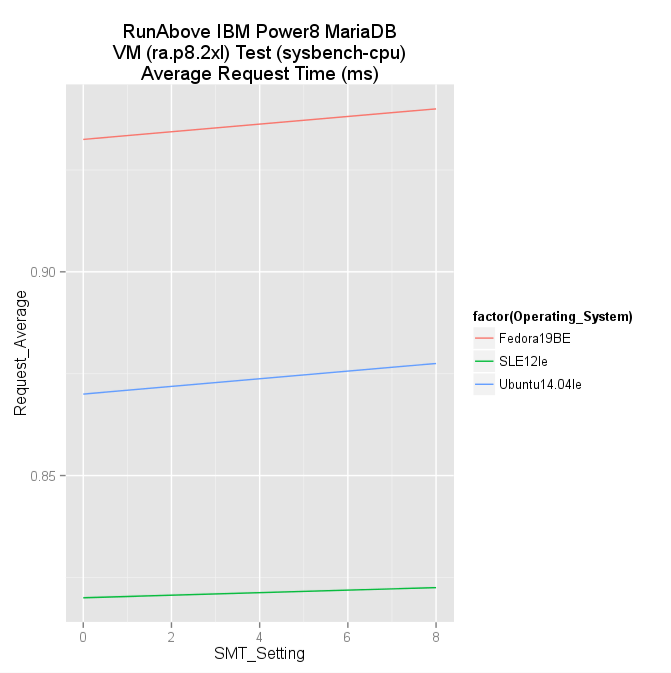
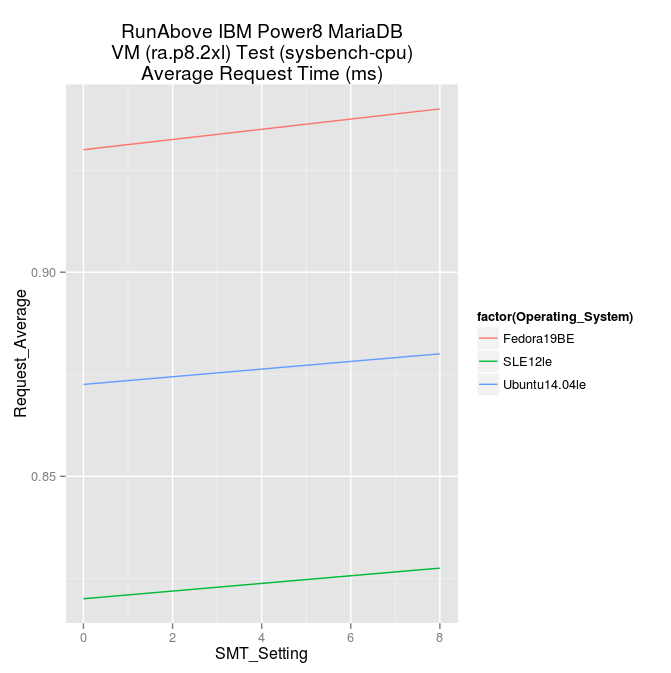
augment with 2xl vm flavor data, results, and report

diff --git a/README.md b/README.md
@@ -10,6 +10,7 @@ This project documents how a comparitive benchmarking study was done to assess M
 | Cloud Service Provider | [OVH Runabove](https://www.runabove.com/index.xml) |
 | System Architecture | [IBM Power8](http://www-03.ibm.com/systems/power/software/linux/) with PowerKVM 2.1.0 |
 | VM Flavor(s) | ra.p8.s ( 8VCPU, 4GB RAM, 10GB Disk ) |
+|              | ra.p8.2xl ( 176VCPU, 48GB RAM, 480GB Disk ) |
 | Operating System(s) | [Fedora](http://fedoraproject.org/) 19 *(BigEndian)* |
 |                     | [SUSE Linux Enterprise Server](https://www.suse.com/products/server/) 12 *(LittleEndian)* |
 |                     | [Ubuntu](http://www.ubuntu.com/server) 14.04 *(LittleEndian)* |
@@ -33,15 +34,15 @@ The process for setup, configuration, data collection and analysis was as follow
 	* upload any operating systems images not already available
 	* launch each instance combination (operating system + VM flavor)
 	* login to each instance, then
-		* install mariadb packages from distribution
+		* install mariadb packages from distribution (or for larger VM flavor, due to required patches, from upstream source and compile)
 		* install any needed mysql library packages from distribution
 		* install sysbench packages from distribution (or find equivalent version and compile from source, as needed), yielding the resulting combinations:
 
 | Operating System | MariaDB version | SysBench version(s)|
 | ---------------- | --------------- | ------------------ |
-| Fedora 19 | 5.5.38 | 0.4.12, 0.5-128 |
-| SUSE Linux Enterprise Server 12 | 10.0.1 | 0.4.12.5, 0.5-128 |
-| Ubuntu 14.04 | 5.5.39 | 0.4.12, 0.5-128 |
+| Fedora 19 | 5.5.38(s),10.0.14(2xl) | 0.4.12, 0.5-128 |
+| SUSE Linux Enterprise Server 12 | 10.0.1(s),10.0.14(2xl) | 0.4.12.5, 0.5-128 |
+| Ubuntu 14.04 | 5.5.39(s),10.0.14(2xl) | 0.4.12, 0.5-128 |
 
 * Configuration
 	* secure MariaDB installation with known username and password
